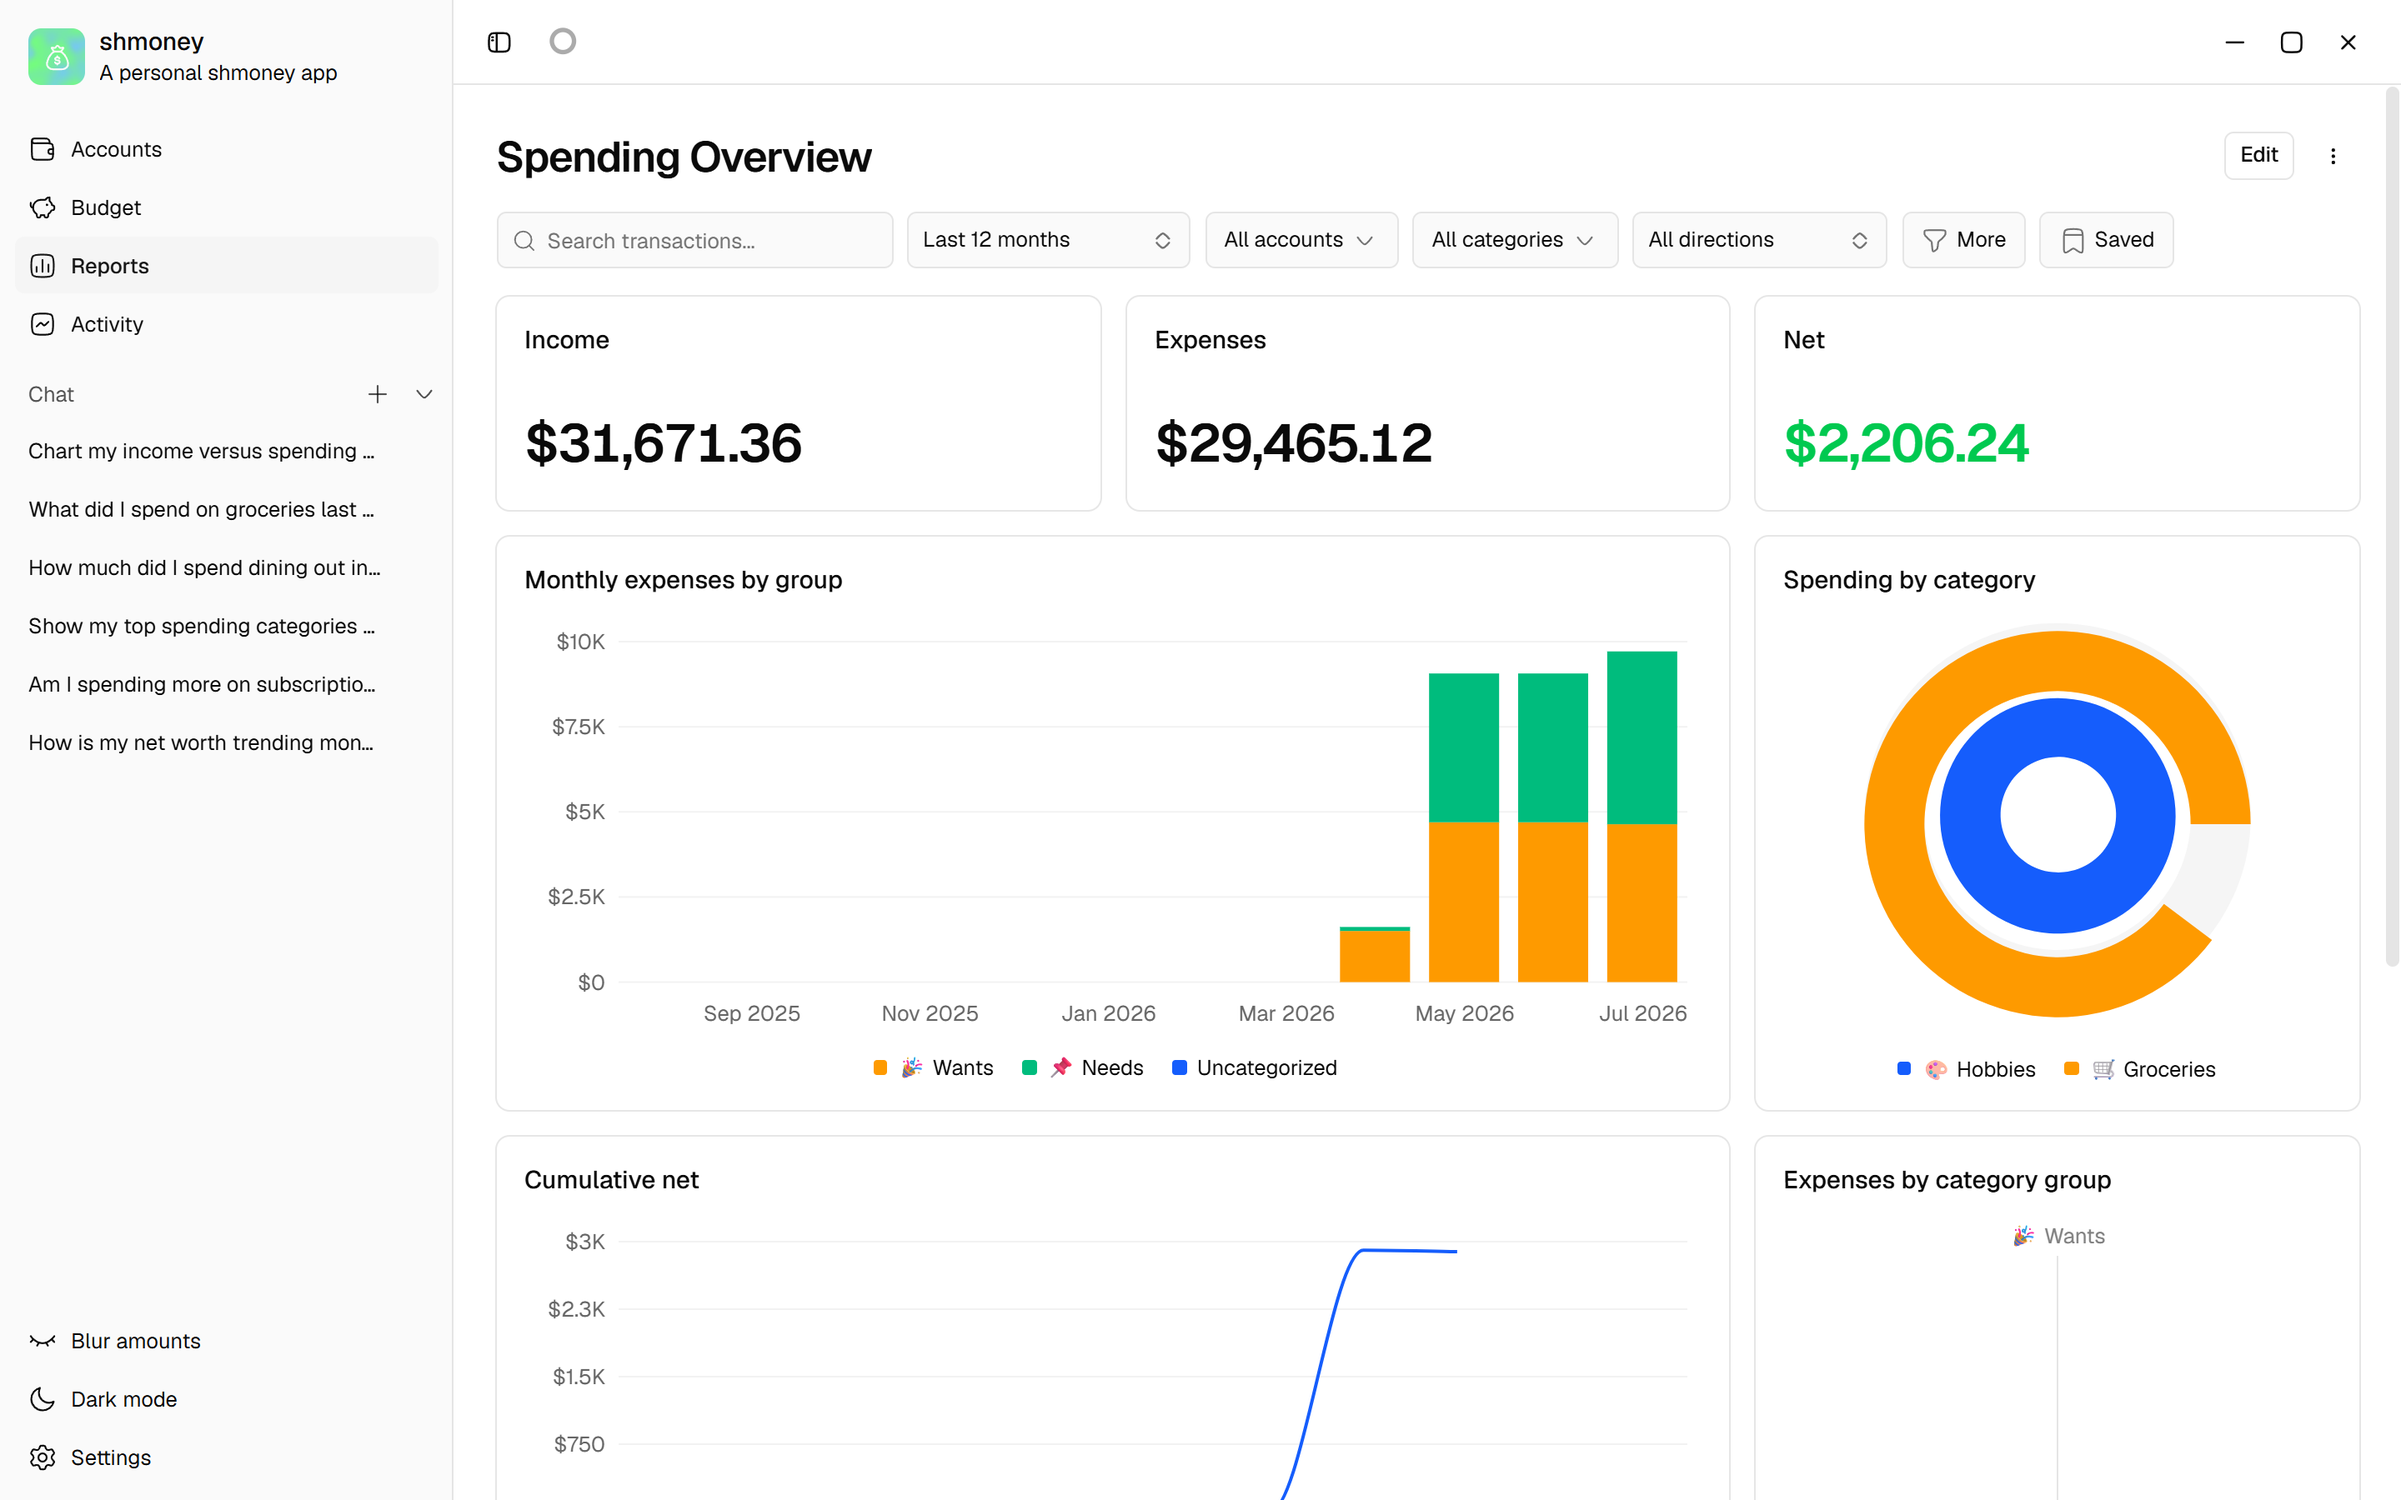
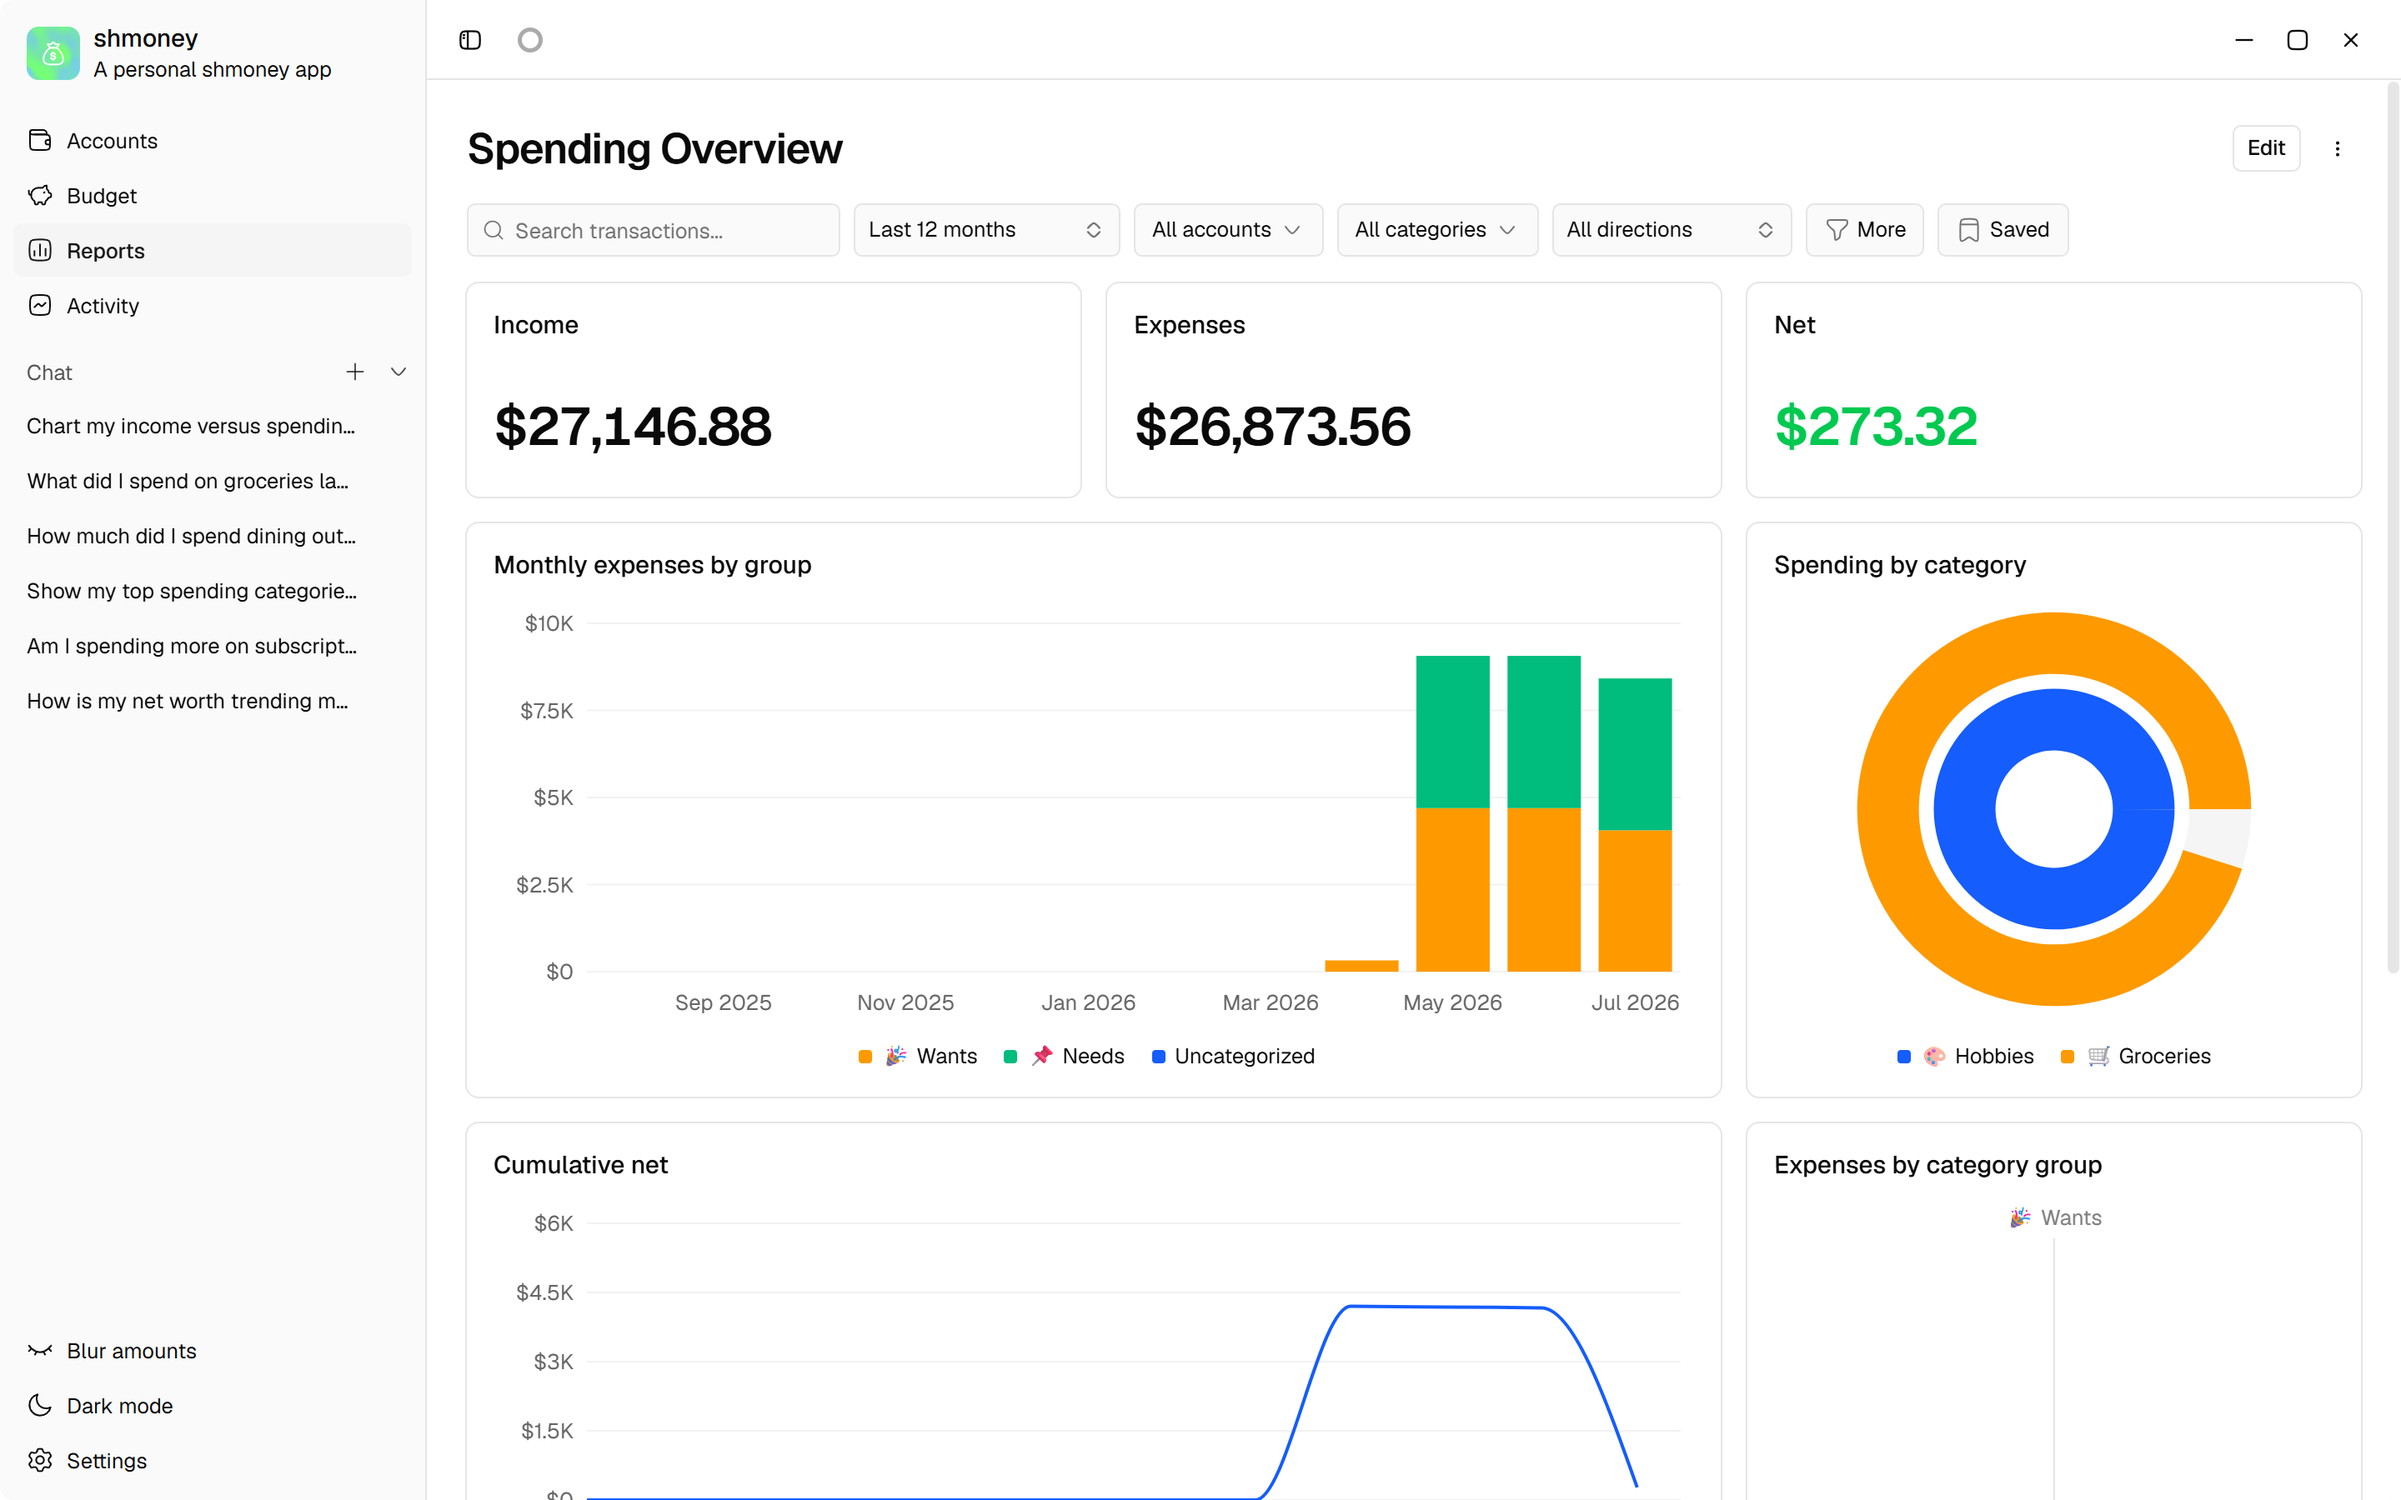
Keep radial rings concentric by stopping short of a full turn
A sweep of exactly 360 leaves an arc whose start and end points coincide,
and Recharts rounds path coordinates to four decimals. Solving that
near-degenerate arc back to a centre divides the rounding error by the
residual angle, so a 1e-4 nudge becomes several pixels of drift. Only
full rings are affected, which is every background track plus whichever
bar holds the largest value: they slid off the partial bars around them,
and the bigger the chart the more obvious it got.

Sweeping 359.9 instead keeps the arc well conditioned. Measured drift
across widget sizes from 180x150 to 620x470 and viewports from 1000 to
1900 wide drops from up to 6.3px to under 0.05px, and the gap it leaves
is a fraction of a pixel.

The budget gauge sets cornerRadius, which routes through a different
path builder with no degenerate arc, so it never drifted and is left
alone. Re-shot docs/screenshots/report-detail.png, where the old rings
were visibly offset.

diff --git a/src/renderer/src/components/reports/widget-renderer.tsx b/src/renderer/src/components/reports/widget-renderer.tsx
@@ -372,6 +372,16 @@ function RadarChartWidget({
 
 // ---------- radial bar ----------
 
+/**
+ * A sweep of exactly 360 makes an arc's start and end point coincide, and
+ * Recharts rounds path coordinates to 4 decimals. Solving that near-degenerate
+ * arc back to a centre amplifies the rounding into a several-pixel shift, so
+ * full rings (every `background` track, plus the largest bar) drift away from
+ * the partial ones. A hair under a full turn keeps the arc well conditioned;
+ * the gap it leaves is a fraction of a pixel.
+ */
+const FULL_TURN = 359.9
+
 function RadialChartWidget({
   config,
   rows,
@@ -405,7 +415,13 @@ function RadialChartWidget({
     <div className="relative flex h-full flex-col px-4 pb-4">
       <MixedCurrencyBadge currencies={currencies} />
       <ChartContainer config={chartConfig} className="aspect-auto min-h-0 w-full flex-1">
-        <RadialBarChart data={data} innerRadius="25%" outerRadius="100%">
+        <RadialBarChart
+          data={data}
+          startAngle={0}
+          endAngle={FULL_TURN}
+          innerRadius="25%"
+          outerRadius="100%"
+        >
           <ChartTooltip
             content={
               <ChartTooltipContent
